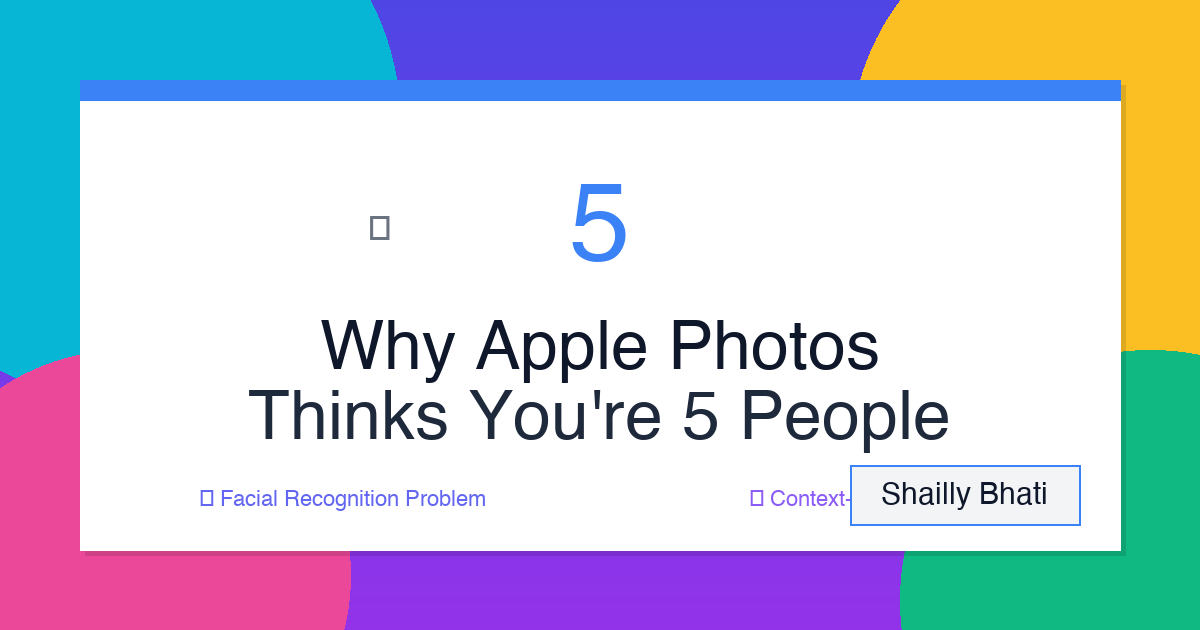
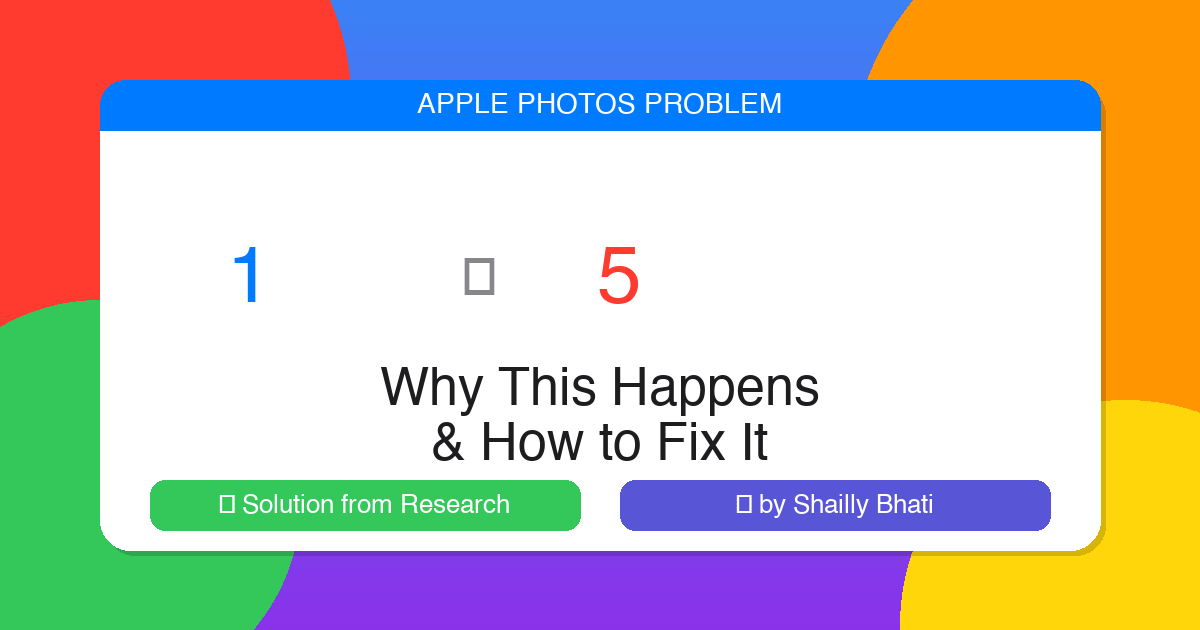
Create super colorful LinkedIn thumbnail
- Vibrant gradient background (blue to purple)
- Large colorful accent circles (Apple red, orange, green, yellow)
- Clean white content card with shadow
- Visual story: 1 person → 5 people with emojis
- Colorful boxes for "Solution" and "Author"
- Updated cache-busting to v=4 to force LinkedIn refresh
- Eye-catching design that will stand out in LinkedIn feed

diff --git a/blog-post-1.html b/blog-post-1.html
@@ -10,7 +10,7 @@
     <meta property="og:type" content="article">
     <meta property="og:title" content="Why Apple Photos Thinks You're 5 Different People (And How to Fix It)">
     <meta property="og:description" content="Apple still can't fix this photo problem. Your photos get split into multiple people clusters. Here's why it happens and what my facial recognition research taught me about solving it.">
-    <meta property="og:image" content="https://shellsss29.github.io/images/blog-thumbnail.png?v=3">
+    <meta property="og:image" content="https://shellsss29.github.io/images/blog-thumbnail.png?v=4">
     <meta property="og:image:width" content="1200">
     <meta property="og:image:height" content="630">
     <meta property="og:url" content="https://shellsss29.github.io/blog-post-1.html">
@@ -21,7 +21,7 @@
     <meta name="twitter:card" content="summary_large_image">
     <meta name="twitter:title" content="Why Apple Photos Thinks You're 5 Different People (And How to Fix It)">
     <meta name="twitter:description" content="Apple still can't fix this photo problem. Here's why it happens and what my facial recognition research taught me about solving it.">
-    <meta name="twitter:image" content="https://shellsss29.github.io/images/blog-thumbnail.png?v=3">
+    <meta name="twitter:image" content="https://shellsss29.github.io/images/blog-thumbnail.png?v=4">
     <link rel="stylesheet" href="css/style.css">
     <link rel="stylesheet" href="css/blog.css">
     <link rel="stylesheet" href="https://cdnjs.cloudflare.com/ajax/libs/font-awesome/6.4.0/css/all.min.css">

diff --git a/create_linkedin_thumbnail.py b/create_linkedin_thumbnail.py
@@ -1,0 +1,98 @@
+from PIL import Image, ImageDraw, ImageFont
+import os
+
+# Create vibrant LinkedIn thumbnail
+width, height = 1200, 630
+image = Image.new('RGB', (width, height), '#ffffff')
+draw = ImageDraw.Draw(image)
+
+# Vibrant gradient background - blue to purple
+for y in range(height):
+    ratio = y / height
+    r = int(59 + (139 - 59) * ratio)   # 59 to 139
+    g = int(130 - (80) * ratio)         # 130 to 50
+    b = int(246 - (12) * ratio)         # 246 to 234
+    draw.rectangle([(0, y), (width, y + 1)], fill=(r, g, b))
+
+# Large colorful accent circles
+draw.ellipse([(-150, -150), (350, 350)], fill='#FF3B30')      # Apple Red
+draw.ellipse([(850, -100), (1400, 450)], fill='#FF9500')      # Apple Orange
+draw.ellipse([(-100, 300), (300, 700)], fill='#34C759')       # Apple Green
+draw.ellipse([(900, 400), (1350, 850)], fill='#FFD60A')       # Apple Yellow
+
+# White content card
+overlay = Image.new('RGBA', (width, height), (0, 0, 0, 0))
+overlay_draw = ImageDraw.Draw(overlay)
+overlay_draw.rounded_rectangle([(100, 80), (1100, 550)], radius=30, fill=(255, 255, 255, 245))
+image.paste(overlay, (0, 0), overlay)
+
+# Add shadow
+shadow_overlay = Image.new('RGBA', (width, height), (0, 0, 0, 0))
+shadow_draw = ImageDraw.Draw(shadow_overlay)
+shadow_draw.rounded_rectangle([(100, 80), (1100, 550)], radius=30, fill=(0, 0, 0, 40))
+image.paste(shadow_overlay, (5, 5), shadow_overlay)
+
+# White card on top
+draw.rounded_rectangle([(100, 80), (1100, 550)], radius=30, fill='#ffffff')
+
+# Colorful top bar
+draw.rounded_rectangle([(100, 80), (1100, 130)], radius=30, fill='#007AFF')
+draw.rectangle([(100, 110), (1100, 130)], fill='#007AFF')  # Fill bottom
+
+# Load fonts
+try:
+    title_font = ImageFont.truetype('/System/Library/Fonts/Helvetica.ttc', 52)
+    emoji_font = ImageFont.truetype('/System/Library/Fonts/Helvetica.ttc', 80)
+    subtitle_font = ImageFont.truetype('/System/Library/Fonts/Helvetica.ttc', 28)
+    author_font = ImageFont.truetype('/System/Library/Fonts/Helvetica.ttc', 26)
+except:
+    title_font = ImageFont.load_default()
+    emoji_font = ImageFont.load_default()
+    subtitle_font = ImageFont.load_default()
+    author_font = ImageFont.load_default()
+
+# Top bar text
+draw.text((600, 105), "APPLE PHOTOS PROBLEM", font=subtitle_font, fill='#ffffff', anchor='mm')
+
+# Large visual story in center
+y_center = 280
+
+# 1 person
+draw.text((250, y_center), "1", font=emoji_font, fill='#007AFF', anchor='mm')
+draw.text((320, y_center), "👤", font=emoji_font, anchor='mm')
+
+# Arrow
+draw.text((480, y_center), "→", font=title_font, fill='#86868b', anchor='mm')
+
+# 5 people
+draw.text((620, y_center), "5", font=emoji_font, fill='#FF3B30', anchor='mm')
+draw.text((720, y_center - 30), "👥", font=subtitle_font, anchor='mm')
+draw.text((720, y_center), "👥", font=subtitle_font, anchor='mm')
+draw.text((720, y_center + 30), "👥", font=subtitle_font, anchor='mm')
+draw.text((780, y_center - 15), "👥", font=subtitle_font, anchor='mm')
+draw.text((780, y_center + 15), "👥", font=subtitle_font, anchor='mm')
+
+# Question mark
+draw.text((920, y_center), "❓", font=emoji_font, anchor='mm')
+
+# Main title below
+draw.text((600, 390), "Why This Happens", font=title_font, fill='#1d1d1f', anchor='mm')
+draw.text((600, 445), "& How to Fix It", font=title_font, fill='#1d1d1f', anchor='mm')
+
+# Bottom section with colorful boxes
+# Key insight box
+draw.rounded_rectangle([(150, 480), (580, 530)], radius=15, fill='#34C759')
+draw.text((365, 505), "💡 Solution from Research", font=author_font, fill='#ffffff', anchor='mm')
+
+# Author box
+draw.rounded_rectangle([(620, 480), (1050, 530)], radius=15, fill='#5856D6')
+draw.text((835, 505), "👤 by Shailly Bhati", font=author_font, fill='#ffffff', anchor='mm')
+
+# Save
+output_path = 'images/blog-thumbnail.png'
+image.save(output_path, 'PNG', quality=95)
+
+print(f"✅ Vibrant LinkedIn thumbnail created!")
+print(f"📐 Size: {width}x{height}px")
+print(f"🎨 Super colorful with Apple red, orange, green, yellow, blue, purple!")
+print(f"✨ This will definitely stand out on LinkedIn!")
